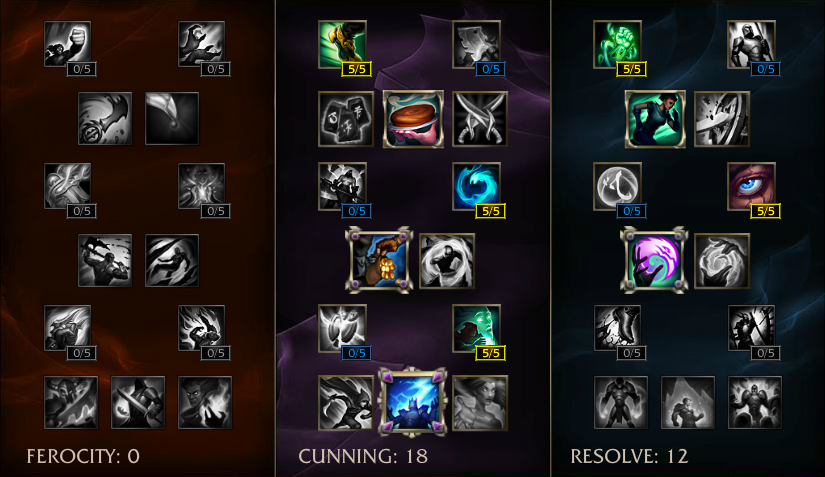
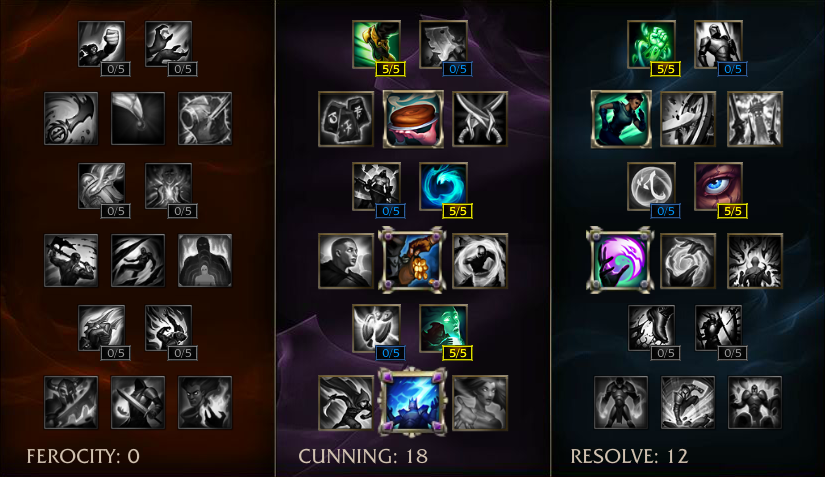
6.22 Masteries
* Updated Mastery section for 6.22

diff --git a/basic-guides/mastery-breakdown/index.html b/basic-guides/mastery-breakdown/index.html
@@ -37,18 +37,13 @@
 		<div class="content-container">
 			<div class="introduction">
 				<h1>Mastery Breakdown</h1>
-				<p><span>Season 6 preface: </span>Right now there isn't a single 18-point mastery that truly fits with Support Zilean.</p>
-				<p>However, there are several talents in the Cunning Tree that work well with Zilean, so Cunning Tree is the most optimal mastery path.</p>
+				<p><span>Season 7 preface: </span>As in Season 6, there is no 18-point keystone mastery that synergizes perfectly with Zilean. In fact, there aren't many changes from the Season 6 mastery list to Season 7.</p>
+				<p>Despite a lackluster selection for keystone talents, there are several minor talents in the Cunning Tree that work well with Zilean, so Cunning Tree is the most optimal mastery path.</p>
 				<p>There are only a few "mandatory" talents that I recommend, such as Meditation, Bandit, and Intelligence. The other talents are simply the best of the alternative choices.</p>
-				<p>There are basically two choices that you would want to choose from: 0/18/12 (a more defensive laning build) or 6/18/6 (more utility in teamfights).</p>
 				<h4>0/18/12 - Extra Health and Summoner Cooldown</h4>
 				<p>This is the standard support page for most mage supports. It offers a bit of defense, and plenty of utility. The difference between this page and the 6/18/6 page is that you have more room to make mistakes during lane with this build.</p>
-				<p><span>If you are learning Zilean and aren't confident yet, go with this mastery page.</span></p>
+				<p><span>This will likely be the go-to page for Support Zilean, with some minor changes in the Tenacity tree depending on how aggressive your opposing lane will be.</span></p>
 				<a href="/img/masteries/01812mastery.png" target="_blank"><img src="/img/masteries/01812mastery.png" alt="0/18/12 Masteries"></a>
-				<h4>6/18/6 - Extra Team Damage</h4>
-				<p>Expose Weakness in the Ferocity tree is an interesting utility talent that works well with Zilean for group fighting. Expose weakness give your team an extra 3% damage for 3 seconds when a Time Bomb detonates. Since this ability doesn't stack, many players skip this talent for something other, which means that there is a solid chance that you'll be the only person on your team that can apply this debuff to the enemy.</p>
-				<p>I have had great success in most lanes with the 6/18/6 build, and only have trouble against heavy poke lanes (such as Karma). I recommend this mastery set once you are comfortable with Zilean.</p>
-				<a href="/img/masteries/061806mastery.png" target="_blank"><img src="/img/masteries/061806mastery.jpg" alt="6/18/6 Masteries"></a>
 			</div>
 		</div>
 	</div>
@@ -63,8 +58,8 @@
 		<div class="content-container">
 			<div class="mastery-container ferocity">
 				<h4>Ferocity Talent Tree</h4>
-				<h6>The Feroicity Tree is an offensive based tree that works better with Mid Zilean and doesn't suit the needs of a Support Zilean.</h6>
-				<h6>I do not recommend taking any points in this tree, but I will go through and show the strengths of each in case you want to do some experimenting.</h6>
+				<h6>The Feroicity Tree is an offensive based tree that works better with higher damage item builds from Mid Zilean and doesn't have as much power with Support Zilean.</h6>
+				<h6>I do not recommend taking any points in the Ferocity tree, but I will go through and show the strengths of each in case you want to do some experimenting.</h6>
 				<ul>
 					<li class="unused">
 						<h4>Fury</h4>
@@ -82,10 +77,10 @@
 					<p>The extra attack speed doesn't benefit Support Zilean at all, so take the extra 2% damage from abilities. This is more beneficial for an AP mid Zilean, but can work well for a Support Zilean, especially if you are focusing more on AP and maxing Time Bomb early.</p>
 				</div>
 				<ul>
-					<li class="unused">
-						<h4>Double Edged Sword</h4>
-						<a href="http://leagueoflegends.wikia.com/wiki/Double-Edged_Sword_(Season_2016_Mastery)" target="_blank"><img src="/img/masteries/fer111.png" alt="Ferocity Mastery: Double Edged Sword"></a>
-						<p>Deal 3% additional damage, take 1.5% additional damage</p>
+					<li class="">
+						<h4>Fresh Blood</h4>
+						<a href="http://leagueoflegends.wikia.com/wiki/Fresh_Blood_(Season_2017_Mastery)" target="_blank"><img src="/img/masteries/fer111.png" alt="Ferocity Mastery: Fresh Blood"></a>
+						<p>Basic attacks vs enemy champions deal (11 + 1 per champion level) bonus damage (9 sec CD per target)</p>
 					</li>
 					<li class="unused">
 						<h4>Feast</h4>
@@ -100,10 +95,11 @@
 				</ul>
 				<button class="expand"><span>Show Explanation</span></button>
 				<div class="explanation">
-					<p>Expose Weakness is the best choice of the three because Double Bombs will give about 6 seconds of the debuff (3 for when the initial bomb goes, 3 more after the second).</p>
+					<p>Fresh Blood is a solid talent for early game if you plan on playing aggressively vs your lane opponents. This skill does fall off after laning phase, but can pack a wallop early on.</p>
+					<p>Expose Weakness is the best choice of the three because Double Bombs will give about 6 seconds of the debuff (3 for when the initial bomb goes, 3 more after the second). This is weaker than Fresh Blood during the early game but is much more powerful when grouped.</p>
 					<p>The extra 3% damage should be fairly constant since you spam Time Bomb for zoning and stuns in teamfights.</p>
 					<p>It should also be noted that Expose Weakness does not stack if other allies are using Expose Weakness. However, many other laners prefer Feast or Double Edged Sword to be stronger in lane.</p>
-					<p>The other two options are best suited for farming in lane.</p>
+					<p>Feast isn't good for supports, period.</p>
 				</div>
 				<ul>
 					<li class="unused">
@@ -127,26 +123,32 @@
 					<li class="unused">
 						<h4>Bounty Hunter</h4>
 						<a href="http://leagueoflegends.wikia.com/wiki/Bounty_Hunter_(Season_2016_Mastery)" target="_blank"><img src="/img/masteries/fer211.png" alt="Ferocity Mastery: Bounty Hunter"></a>
-						<p>Deal 1% increased damage for each unique enemy champion you have killed</p>
+						<p>Deal 1.5% increased damage for each unique enemy champion you have killed</p>
+					</li>
+					<li class="unused">
+						<h4>Double Edged Sword</h4>
+						<a href="http://leagueoflegends.wikia.com/wiki/Double-Edged_Sword_(Season_2016_Mastery)" target="_blank"><img src="/img/masteries/fer212.png" alt="Ferocity Mastery: Oppressor"></a>
+						<p>Deal 5% increased damage but take 2.5% more damage from all sources</p>
 					</li>
 					<li>
-						<h4>Oppressor</h4>
-						<a href="http://leagueoflegends.wikia.com/wiki/Oppressor_(Season_2016_Mastery)" target="_blank"><img src="/img/masteries/fer212.png" alt="Ferocity Mastery: Oppressor"></a>
-						<p>Deal 2.5% increased damage to targets with impaired movement (slow, stun, root, taunt, etc.)</p>
+						<h4>Battle Trance</h4>
+						<a href="http://leagueoflegends.wikia.com/wiki/Battle_Trance_(Season_2017_Mastery)" target="_blank"><img src="/img/masteries/fer213.png" alt="Ferocity Mastery: Oppressor"></a>
+						<p>Deal 5% increased damage over 5 seconds when in combat with enemy champions</p>
 					</li>
 				</ul>
 				<button class="expand"><span>Show Explanation</span></button>
 				<div class="explanation">
-					<p>The Bounty Hunter can provide a max of 5% extra damage, but you may only get 2-3%. For a support, you do not want to try to take the kills, making this mastery useless.</p>
-					<p>The extra damage to snared is a solid choice if you use slows in your spell combo. The extra damage will ONLY go off on the first bomb detonation unless you follow up with another slow spell at the end of the stun. Generally I take this option over Bounty Hunter because in team fights, there will be some crowd control effect on your target, so you get the bonus damage.</p>
+					<p>Of the three, Battle Trance is easily the best for Support Zilean for damage. When your Time Bomb lands on a champion, you are put into combat for a minimum of 3 seconds automatically, so it is very easy to reach the max value for this effect.</p>
+					<p>The other two options are too conditional or have too high of a risk associated. Even for mid lane, Battle Trance is the best pick.</p>
 				</div>
+				<h6>I do not recommend going this far into the tree because the final keystones are poor choices for Zilean.</h6>
 				<ul>
 					<li class="unused">
 						<h4>Battering Blows</h4>
 						<a href="http://leagueoflegends.wikia.com/wiki/Battering_Blows_(Season_2016_Mastery)" target="_blank"><img src="/img/masteries/fer31.png" alt="Ferocity Mastery: Battering Blows"></a>
 						<p>7% Armor Penetration</p>
 					</li>
-					<li class="unused">
+					<li class="">
 						<h4>Piercing Thoughts</h4>
 						<a href="http://leagueoflegends.wikia.com/wiki/Piercing_Thoughts_(Season_2016_Mastery)" target="_blank"><img src="/img/masteries/fer32.png" alt="Ferocity Mastery: Piercing Thoughts"></a>
 						<p>7% Magic Penetration</p>
@@ -154,7 +156,6 @@
 				</ul>
 				<button class="expand"><span>Show Explanation</span></button>
 				<div class="explanation">
-					<p>I do not recommend going this far into the tree because the final keystones are poor choices for Zilean.</p>
 					<p>For this tree, the Magic Penetration is better than the Armor Penetration, but the flat penetration in Cunning is a better option overall.</p>
 				</div>
 				<ul class="three-tree">
@@ -176,7 +177,7 @@
 							<p>Zilean shouldn't be getting enough auto attacks to reliably use this talent, so this is pointless.</p>
 						</div>
 					</li>
-					<li class="unused">
+					<li class="">
 						<h4>Deathfire Touch</h4>
 						<a href="http://leagueoflegends.wikia.com/wiki/Deathfire_Touch_(Season_2016_Mastery)" target="_blank"><img src="/img/masteries/fer313.png" alt="Ferocity Mastery: Fury"></a>
 						<p>Your spells cause enemy champions to take magic damage equal to 20% of your Ability Power, halved for Area of Effect spells</p>
@@ -263,28 +264,34 @@
 					<p>The extra damage just isn't as valuable with Zilean's kit.</p>
 				</div>
 				<ul>
+					<li class="unused">
+						<h4>Greenfather's Gift</h4>
+						<a href="http://leagueoflegends.wikia.com/wiki/Greenfather%27s_Gift_(Season_2017_Mastery)" target="_blank"><img src="/img/masteries/cun211.png" alt="Cunning Mastery: Greenfather's Gift"></a>
+						<p>Stepping into brush causes your next damaging attack or ability to deal 3% of your target's current health as bonus magic damage (9s cooldown)</p>
+					</li>
 					<li>
 						<h4>Bandit</h4>
-						<a href="http://leagueoflegends.wikia.com/wiki/Bandit_(Season_2016_Mastery)" target="_blank"><img src="/img/masteries/cun211.png" alt="Cunning Mastery: Bandit"></a>
+						<a href="http://leagueoflegends.wikia.com/wiki/Bandit_(Season_2016_Mastery)" target="_blank"><img src="/img/masteries/cun212.png" alt="Cunning Mastery: Bandit"></a>
 						<p>Gain 1 gold for each nearby minion killed by an ally.</p>
-						<p>Gain 3 gold when hitting an enemy champion with a basic attack (5 second cooldown)</p>
+						<p>Gain 3 gold when hitting an enemy champion with a basic attack (5s cooldown)</p>
 					</li>
 					<li class="unused">
 						<h4>Dangerous Game</h4>
-						<a href="http://leagueoflegends.wikia.com/wiki/Dangerous_Game_(Season_2016_Mastery)" target="_blank"><img src="/img/masteries/cun212.png" alt="Cunning Mastery: Dangerous Game"></a>
+						<a href="http://leagueoflegends.wikia.com/wiki/Dangerous_Game_(Season_2016_Mastery)" target="_blank"><img src="/img/masteries/cun213.png" alt="Cunning Mastery: Dangerous Game"></a>
 						<p>Champion kills and assists restore 5% of your missing Health and Mana</p>
 					</li>
 				</ul>
 				<button class="expand"><span>Show Explanation</span></button>
 				<div class="explanation">
 					<p>As a support, the default go-to is Bandit because it increases the passive gold generation and rewards for harassing in lane.</p>
-					<p>The health/mana restoration on kill can be the saving grace in some situations, but Zilean's ultimate is far better insurance policy than Dangerous Game.</p>
+					<p>Greenfather's Gift works best if you are playing against a passive lane and can gain brush control. The downside is that you'll be losing passive gold trading auto attack damage for extra gold. I don't believe the loss is gold is worth the extra auto attack damage.</p>
+					<p>Dangerous Game is the worst of the 3 choices and should be avoided.</p>
 				</div>
 				<ul>
 					<li class="unused">
 						<h4>Precision</h4>
 						<a href="http://leagueoflegends.wikia.com/wiki/Precision_(Season_2016_Mastery)" target="_blank"><img src="/img/masteries/cun31.png" alt="Cunning Mastery: Precision"></a>
-						<p>Gain 3.3 + .3 per level (8.4 total at level 18) Armor and Magic Penetration</p>
+						<p>Gain 8.5 Lethality Armor and Magic Penetration per level</p>
 					</li>
 					<li>
 						<h4>Intelligence</h4>
@@ -310,10 +317,7 @@
 					<li>
 						<h4>Thunderlord's Decree</h4>
 						<a href="http://leagueoflegends.wikia.com/wiki/Thunderlord's_Decree_(Season_2016_Mastery)" target="_blank"><img src="/img/masteries/cun312.png" alt="Cunning Mastery: Thunderlord's Decree"></a>
-						<p>Your 3rd attack or spell on an enemy champion deals 10 damage per level,
-							<br>plus 30% of your bonus Attack Damage
-							<br>plus 10% of your Ability Power
-							<br>every 15-25 seconds (based on level)
+						<p>Your 3rd attack or spell on an enemy champion deals extra damage.</p>
 						</p>
 						<button class="expand"><span>Show Explanation</span></button>
 						<div class="explanation">
@@ -371,16 +375,21 @@
 						<a href="http://leagueoflegends.wikia.com/wiki/Explorer_(Season_2016_Mastery)" target="_blank"><img src="/img/masteries/res111.png" alt="Resolve Mastery: Explorer"></a>
 						<p>+15 Movement Speet in Brush and River</p>
 					</li>
-					<li  class="unused">
+					<li  class="">
 						<h4>Tough Skin</h4>
 						<a href="http://leagueoflegends.wikia.com/wiki/Tough_Skin_(Season_2016_Mastery)" target="_blank"><img src="/img/masteries/res112.png" alt="Resolve Mastery: Tough Skin"></a>
 						<p>You take 2 less damage from champion basic attacks</p>
 					</li>
+					<li  class="">
+						<h4>Siegemaster</h4>
+						<a href="http://leagueoflegends.wikia.com/wiki/Siegemaster_(Season_2017_Mastery)" target="_blank"><img src="/img/masteries/res113.png" alt="Resolve Mastery: Siegemaster"></a>
+						<p>Gain 8 Armor and MR when near an allied tower</p>
+					</li>
 				</ul>
 				<button class="expand"><span>Show Explanation</span></button>
 				<div class="explanation">
-					<p>I prefer the extra MS in the river and brush because it makes escapes much easier. This movement speed is added onto the base movement speed, so you get a higher scaling Time Warp in the river. I like the utility of this talent over the minuscule damage reduction.</p>
-					<p>Taking 2 fewer damage from champions adds up over time, but each auto attack from an ADC will hit deal 50-60 damage, so you'll be taking a 25+ auto attacks negating enough damage from that first auto attack. This talent works better for supports with higher armor or if you are going against a heavy poke lane.</p>
+					<p>These 3 choices can be changed depending on what matchup you are playing into. Planning to roam more? Take Explorer. Want to play aggressive? Take Tough Skin. Planning to have a rough time in lane? Take Siegemaster.</p>
+					<p>Generally, I prefer the extra MS in the river and brush because it makes escapes much easier. This movement speed is added onto the base movement speed, so you get a higher scaling Time Warp in the river. I like the utility of this talent over the minuscule damage reduction.</p>
 				</div>
 				<ul>
 					<li class="unused">
@@ -414,11 +423,17 @@
 						<a href="http://leagueoflegends.wikia.com/wiki/Perseverance_(Season_2016_Mastery)" target="_blank"><img src="/img/masteries/res212.png" alt="Resolve Mastery: Perseverance"></a>
 						<p>+50% Base Health Regen, increased to +200% when below 25%  Health</p>
 					</li>
+					<li  class="unused">
+						<h4>Fearless</h4>
+						<a href="http://leagueoflegends.wikia.com/wiki/Fearless_(Season_2017_Mastery)" target="_blank"><img src="/img/masteries/res212.png" alt="Resolve Mastery: Fearless"></a>
+						<p>Gain a bonus Armor and MR for 2 seconds when damaged by enemy champions</p>
+					</li>
 				</ul>
 				<button class="expand"><span>Show Explanation</span></button>
 				<div class="explanation">
-					<p>The lower cooldown on Summoner Spells is the most common choice in this tree, for good reason. For example, if you are tracking your opponents summoner spells by their default values (300sec / 5 minute Flash/Teleport, 240sec / 4 minute Geal, 210 / 3.5minute Exhaust/Ignite), you may be off by 30 seconds on a flash timing (255sec / 4.25minute Flash/TP, 204sec / 3.4 minute Heal, 179sec / 3 minute Exhaust/Ignite). Also having these spells more readily available makes more opportunities to engage/prevent plays.</p>
-					<p>The extra health regen is not a bad talent at all, it's just better for those who expect to be staying in lane for long periods of time at a lower health. Since Support Zilean has decent sustain if you go with the Ancient Coin and three potions, this mastery is a bit unnecessary for him.</p>
+					<p>The lower cooldown on Summoner Spells is the most common choice in this tree, for good reason. For example, if you are tracking your opponents summoner spells by their default values (see chart above), you may be off by 45 seconds on a Flash timing (255s vs 300s Flash). Also having these spells more readily available makes more opportunities to engage/prevent plays.</p>
+					<p>The extra health regen is not that useful. Since Support Zilean has decent sustain if you go with the Ancient Coin and three potions, this mastery is a bit unnecessary for him.</p>
+					<p>Fearless is not a worthwhile talent to take for Support Zilean because he should not be tanking and does not have enough base tank stats to make this talent useful.</p>
 				</div>
 				<ul>
 					<li>
@@ -441,22 +456,20 @@
 					<li class="unused">
 						<h4>Grasp of the Undying</h4>
 						<a href="http://leagueoflegends.wikia.com/wiki/Grasp_of_the_Undying_(Season_2016_Mastery)" target="_blank"><img src="/img/masteries/res311.png" alt="Resolve Mastery: Grasp of the Undying"></a>
-						<p>Every 4 seconds in combat your next attack against enemy champions deals and steals 1.25% of your max Health</p>
+						<p>Every 4 seconds in combat your next attack against enemy champions deals and steals .75% of your max Health</p>
 						<button class="expand"><span>Show Explanation</span></button>
 						<div class="explanation">
 							<p>The auto attacks stealing 7-10 health seems alright, but the damage you take from the creeps attacking you back is not worth the small amount of life stolen. Plus you have to actively be in combat to use this, which turns off your passive for 10 seconds.</p>
 							<p>In the late game, Zilean doesn't have a large HP pool and you shouldn't be able to get free auto attacks outside of picking off an enemy straggler.</p>
 						</div>
 					</li>
-					<li class="">
-						<h4>Strength of Ages</h4>
-						<a href="http://leagueoflegends.wikia.com/wiki/Strength_of_the_Ages_(Season_2016_Mastery)" target="_blank"><img src="/img/masteries/res312.png" alt="Resolve Mastery: Strength of Ages"></a>
-						<p>When a Siege minion dies nearby, you gain a permanent 20 health (up to 300) and heal for 6% max health</p>
+					<li class="unused">
+						<h4>Courage of the Colossus</h4>
+						<a href="http://leagueoflegends.wikia.com/wiki/Courage_of_the_Colossus_(Season_2017_Mastery)" target="_blank"><img src="/img/masteries/res312.png" alt="Resolve Mastery: Courage of the Colossus"></a>
+						<p>Gain a shield for 4 seconds after hitting an enemy champion with hard crowd control. This can apply multiple times if multiple enemies are hit. 30s cooldown</p>
 						<button class="expand"><span>Show Explanation</span></button>
 						<div class="explanation">
-							<p>This is one of the mastery choices that is starting to be popular on tanky supports, and the third best option for Support Zilean.</p>
-							<p>You pick up a free 10 HP for helping start the game with a leash, and gain 20 hp every 1.5 minutes, pending you manage your backs properly. Even though you may roam and miss Siege minions, the waves gradually produce a Seige every other wave (and every wave after 35 minutes), which means that reaching the bonus 300HP is guaranteed if the game goes long enough.</p>
-							<p>The downside to this is that this pick is a bit selfish if you are in the Resolve tree, and elect to not take the flat % damage reduction and the damage share with carries.</p>
+							<p>This talent is great for initiating tanks, but isn't great for Zilean. Zilean does have an easy time landing mutli-member crowd controls, but most of the time there is movement away from the fight so the shield would quickly fall off before damage can be absorbed.</p>
 						</div>
 					</li>
 					<li>
@@ -466,7 +479,7 @@
 						<p>6% of the damage taken by the nearest allied champion is dealt to you instead</p>
 						<button class="expand"><span>Show Explanation</span></button>
 						<div class="explanation">
-							<p>This is the second best keystone talents for Support Zilean across trees, this is the second best option. You will almost always have a 4% damage reduction, and help out your lane partner by soaking some of his damage.</p>
+							<p>This is the second best keystone talents for Support Zilean across trees, this is the second best option. You will always have a 4% damage reduction, and help out your lane partner by soaking some of his damage.</p>
 							<p>Depending on how aggressive your enemy laners are, you may even want to take this over Thunderlord's and the extra CDR.</p>
 						</div>
 					</li>

diff --git a/index.html b/index.html
@@ -58,7 +58,8 @@
 	</header>
 <main>
 	<div class="patch-version">
-		<p>This guide has been updated for: <a href="http://na.leagueoflegends.com/en/news/game-updates/patch/patch-621-notes" target="_blank">Patch 6.21</a></p>
+		<p>Guides are currently being updated for Season 7 content</p>
+		<!--p>This guide has been updated for: <a href="http://na.leagueoflegends.com/en/news/game-updates/patch/patch-621-notes" target="_blank">Patch 6.21</a></p-->
 	</div>
 
 	<div class="quick-guide-menu quick-guide-main">
